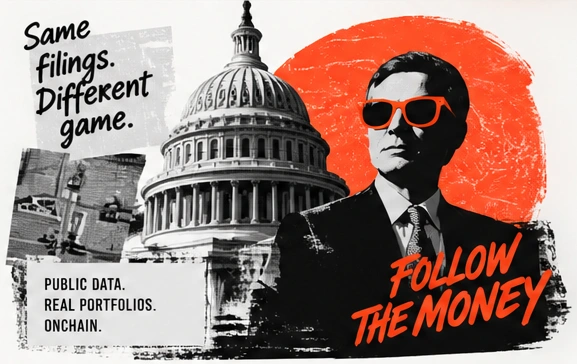
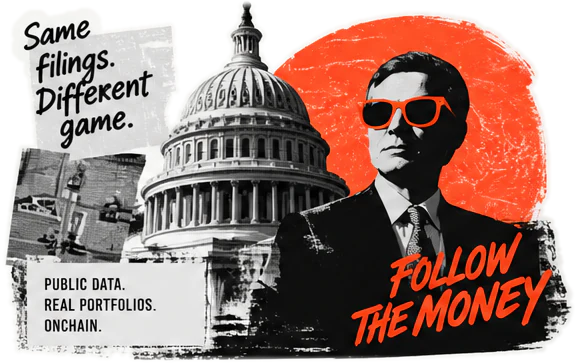
Blend homepage hero collage into the page in both themes (#97)
Regenerate editorial-collage.webp from the source PNG as an alpha-edged
cut-out (outer paper background transparent, soft die-cut edge, frame
fade) via scripts/cutout-editorial-collage.mts, and drop the paper-toned
figure box and multiply blend so no rectangle shows on light or dark.

diff --git a/src/components/consumer-home.module.css b/src/components/consumer-home.module.css
@@ -1,7 +1,7 @@
 .home{max-width:1240px;margin:0 auto;padding:6px 0 35px;color:var(--foreground)}
 .eyebrow{font-size:10px;font-weight:800;letter-spacing:.11em;color:var(--primary)}
 .hero{display:grid;grid-template-columns:minmax(0,1.12fr) minmax(0,1fr);align-items:center;gap:32px;padding:38px 0 32px;border-bottom:1px solid var(--border)}
-.heroCopy{min-width:0}.hero h1{font-size:clamp(42px,4.9vw,68px);line-height:1.01;letter-spacing:-.065em;margin:12px 0 20px;font-weight:850;text-wrap:balance}.heroDescription{font-size:15px;line-height:1.6;color:var(--muted-foreground);max-width:500px;margin:0}.heroActions{display:flex;gap:10px;margin-top:22px}.heroPrimary,.heroSecondary{display:inline-flex;align-items:center;gap:14px;min-height:44px;padding:0 18px;border-radius:9px;font-size:12px;font-weight:700;text-decoration:none}.heroPrimary{background:var(--primary);color:var(--primary-foreground);border:1px solid var(--primary)}.heroSecondary{background:var(--card);color:var(--foreground);border:1px solid var(--border)}.heroProof{display:flex;gap:18px;flex-wrap:wrap;margin:22px 0 0}.heroProof>span{display:flex;align-items:center;gap:6px;font-size:10px;font-weight:600}.heroProof :global(.icon){color:var(--muted-foreground)}.catalogMeta{display:block;font-size:10px;margin-top:14px;color:var(--muted-foreground);font-variant-numeric:tabular-nums}.editorialArt{margin:0;min-width:0;width:100%;max-width:520px;justify-self:end;overflow:hidden;line-height:0;background:#f7f6f2;isolation:isolate;border-radius:3px}.editorialArt img{width:100%;height:auto;display:block;mix-blend-mode:multiply}.tableSection{scroll-margin-top:90px}
+.heroCopy{min-width:0}.hero h1{font-size:clamp(42px,4.9vw,68px);line-height:1.01;letter-spacing:-.065em;margin:12px 0 20px;font-weight:850;text-wrap:balance}.heroDescription{font-size:15px;line-height:1.6;color:var(--muted-foreground);max-width:500px;margin:0}.heroActions{display:flex;gap:10px;margin-top:22px}.heroPrimary,.heroSecondary{display:inline-flex;align-items:center;gap:14px;min-height:44px;padding:0 18px;border-radius:9px;font-size:12px;font-weight:700;text-decoration:none}.heroPrimary{background:var(--primary);color:var(--primary-foreground);border:1px solid var(--primary)}.heroSecondary{background:var(--card);color:var(--foreground);border:1px solid var(--border)}.heroProof{display:flex;gap:18px;flex-wrap:wrap;margin:22px 0 0}.heroProof>span{display:flex;align-items:center;gap:6px;font-size:10px;font-weight:600}.heroProof :global(.icon){color:var(--muted-foreground)}.catalogMeta{display:block;font-size:10px;margin-top:14px;color:var(--muted-foreground);font-variant-numeric:tabular-nums}.editorialArt{margin:0;min-width:0;width:100%;max-width:520px;justify-self:end;line-height:0;background:none}.editorialArt img{width:100%;height:auto;display:block}:global(.dark) .editorialArt img{filter:brightness(.9) contrast(1.04)}.tableSection{scroll-margin-top:90px}
 .tableSection{padding-top:25px}.tableHead{display:flex;align-items:center;justify-content:space-between;gap:22px;margin-bottom:20px}.tableHead h2{font-size:23px;letter-spacing:-.035em;display:flex;align-items:center;gap:10px;margin:0}.resultCount{font-size:12px;font-weight:600;padding:3px 7px;border-radius:6px;background:var(--surface-alt);color:var(--muted-foreground);letter-spacing:0}
 .utilityBar{display:flex;align-items:center;justify-content:flex-end;gap:8px;flex-wrap:wrap}.segmented{display:flex;padding:3px;border:1px solid var(--border);border-radius:9px;background:var(--card)}.segmented button{height:32px;border:0;padding:0 10px;border-radius:6px;background:none;color:var(--muted-foreground);font:inherit;font-size:11px;font-weight:700}.segmented button.active{background:var(--foreground);color:var(--card)}
 .sortSelect{height:40px;display:flex;align-items:center;gap:7px;padding:0 10px;border:1px solid var(--border);border-radius:9px;background:var(--card);font-size:10px;color:var(--muted-foreground)}.sortSelect select{border:0;background:transparent;color:var(--foreground);font:inherit;font-size:11px;font-weight:700}.investToggle{height:40px;display:flex;align-items:center;gap:7px;padding:0 11px;border:1px solid var(--border);border-radius:9px;background:var(--card);font-size:10px;font-weight:650;color:var(--muted-foreground)}.investToggle input{accent-color:var(--primary)}

diff --git a/public/index-assets/home/EDITORIAL-COLLAGE-SOURCE.md b/public/index-assets/home/EDITORIAL-COLLAGE-SOURCE.md
@@ -1,1 +1,3 @@
 Artwork extracted from the user-approved generated homepage reference in this conversation (wide_web_app_ui_screenshot_of_a_modern_finance_das.png). Crop: 850,70–1427,434. Decorative illustration, not a photograph of a named official and not evidence of a transaction. No market data or return charts are included in this crop. Native resolution 577 × 364; do not enlarge beyond the supplied responsive layout.
+
+`editorial-collage.webp` is derived from `editorial-collage.png` by `scripts/cutout-editorial-collage.mts`: only the outer paper background becomes transparent (with a soft die-cut edge) so the collage sits on the page in light and dark themes. No art is added or altered; rerun the script after changing the PNG.
